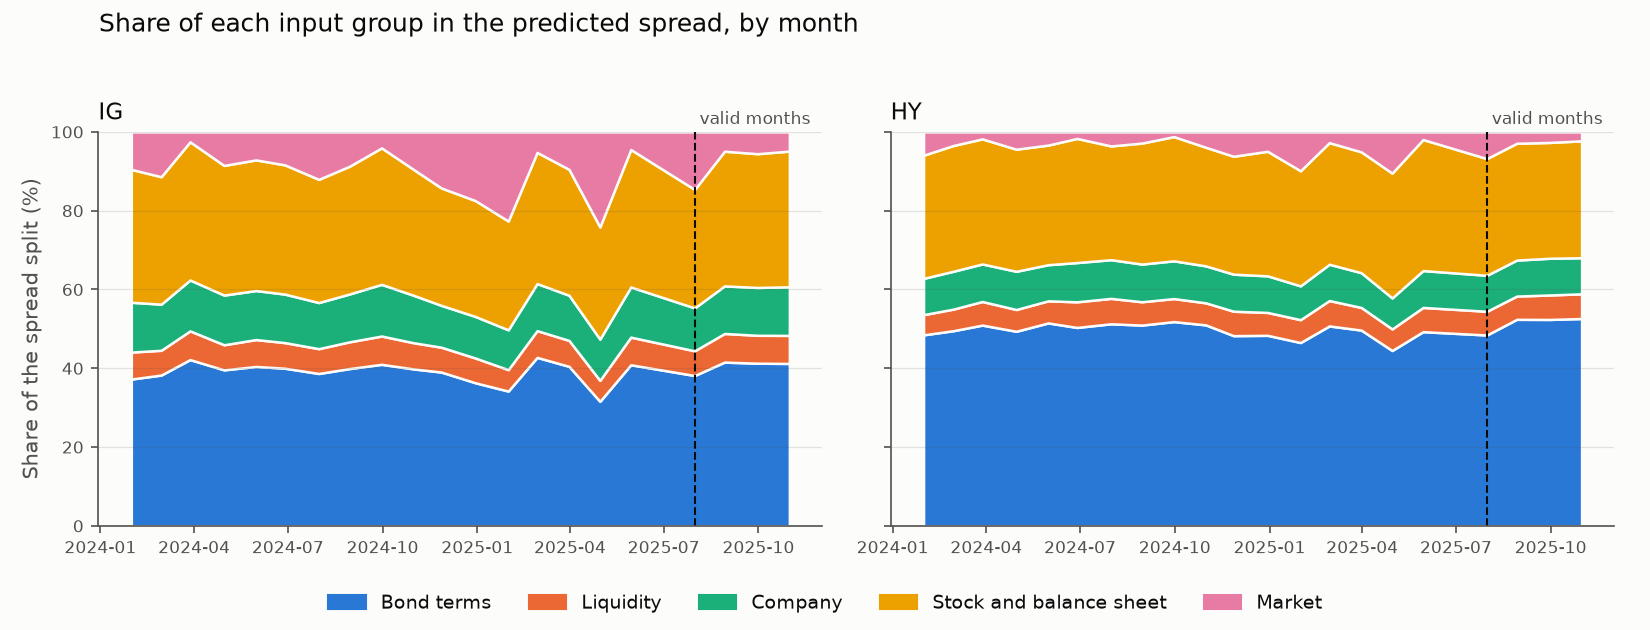
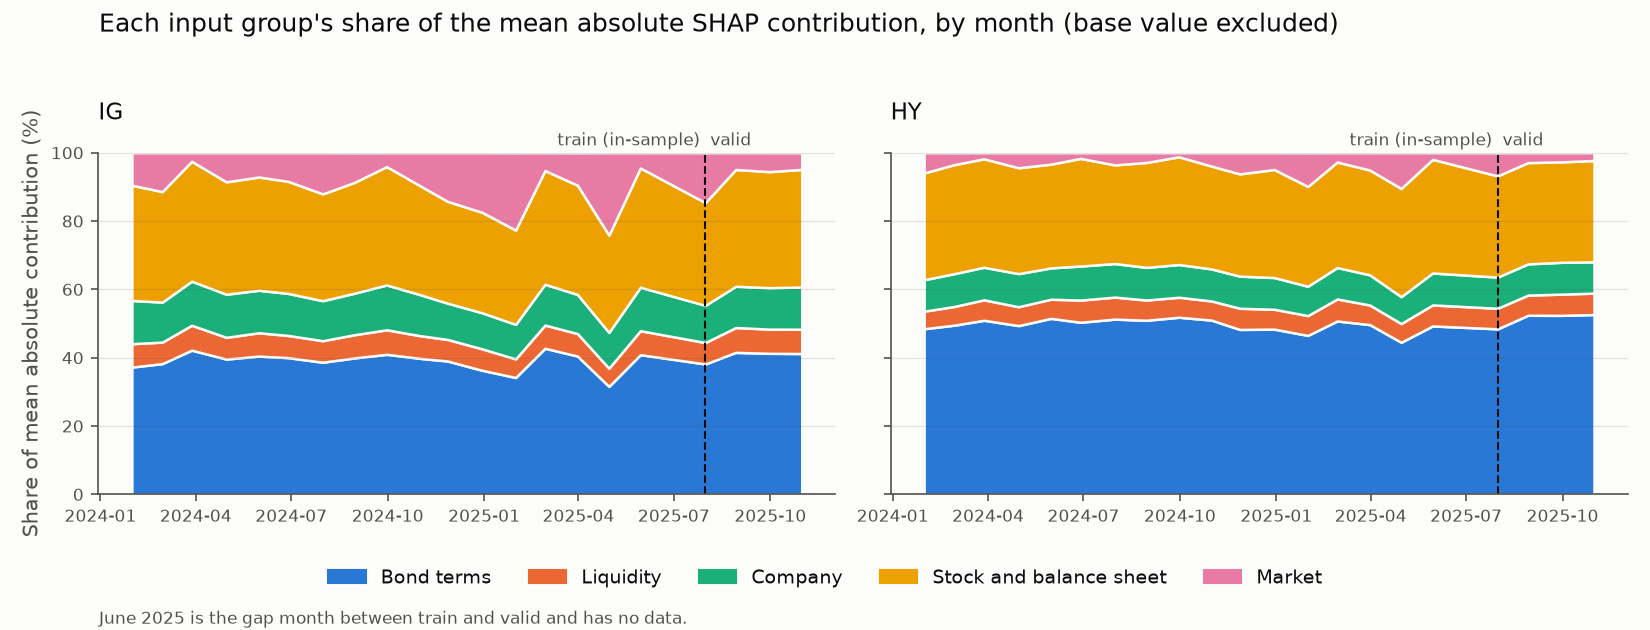
Apply review findings for #6
Name each allowed report CSV in .gitignore instead of allowing every CSV
in reports/. group_shares refuses contributions that are not row-aligned
with the panel, keeps missing cut values as their own cut, and drops
empty category combinations. The chart title says what is measured,
labels the train and valid sides and notes the gap month. The
identifier test now checks the table the script writes. CI installs
matplotlib again for the script.

diff --git a/scripts/a_shap_split.py b/scripts/a_shap_split.py
@@ -2,6 +2,7 @@
 write the shares table and the chart. Totals only.
 
 Run from the repo root: python -m scripts.a_shap_split
+About 8 minutes on a laptop, almost all of it the SHAP values for about 148,000 rows.
 """
 
 from __future__ import annotations
@@ -38,7 +39,7 @@ def shares_table(contribs: pd.DataFrame, df: pd.DataFrame) -> pd.DataFrame:
 
 
 def plot_monthly_shares(table: pd.DataFrame, path) -> None:
-    """Stacked monthly shares, one panel for IG and one for HY, with the valid months shaded."""
+    """Stacked monthly shares, one panel for IG and one for HY, with a line where the valid months start."""
     monthly = table[table["cut"] == "grade_month"]
     groups = list(input_groups())
     valid_start = monthly.loc[monthly["partition"] == "valid", "snapshot_date"].min()
@@ -49,10 +50,11 @@ def plot_monthly_shares(table: pd.DataFrame, path) -> None:
         ax.set_facecolor(SURFACE)
         ax.stackplot(wide.index, wide.T.to_numpy(), colors=COLOURS, edgecolor=SURFACE, linewidth=1.2)
         ax.axvline(valid_start, color=INK, linestyle="--", linewidth=1)
-        ax.text(valid_start, 101, " valid months", color=MUTED, fontsize=8, va="bottom")
-        ax.set_title(grade, color=INK, loc="left", fontsize=11)
+        ax.text(valid_start, 101, "train (in-sample) ", color=MUTED, fontsize=8, va="bottom", ha="right")
+        ax.text(valid_start, 101, " valid", color=MUTED, fontsize=8, va="bottom")
+        ax.set_title(grade, color=INK, loc="left", fontsize=11, pad=16)
         ax.set_ylim(0, 100)
-        ax.set_ylabel("Share of the spread split (%)" if grade == "IG" else "", color=MUTED)
+        ax.set_ylabel("Share of mean absolute contribution (%)" if grade == "IG" else "", color=MUTED)
         ax.tick_params(colors=MUTED, labelsize=8)
         ax.grid(axis="y", color=MUTED, alpha=0.15, linewidth=0.6)
         for side in ("top", "right"):
@@ -61,9 +63,14 @@ def plot_monthly_shares(table: pd.DataFrame, path) -> None:
             ax.spines[side].set_color(MUTED)
     labels = [name.replace("_", " ").capitalize() for name in groups]
     handles = [plt.Rectangle((0, 0), 1, 1, color=c) for c in COLOURS]
-    fig.legend(handles, labels, loc="lower center", ncol=5, frameon=False, fontsize=9, labelcolor=INK)
-    fig.suptitle("Share of each input group in the predicted spread, by month", color=INK, x=0.06, ha="left")
-    fig.tight_layout(rect=(0, 0.08, 1, 0.95))
+    fig.legend(handles, labels, loc="lower center", bbox_to_anchor=(0.5, 0.04), ncol=5, frameon=False, fontsize=9,
+               labelcolor=INK)
+    fig.suptitle(
+        "Each input group's share of the mean absolute SHAP contribution, by month (base value excluded)",
+        color=INK, x=0.06, ha="left",
+    )
+    fig.text(0.06, 0.01, "June 2025 is the gap month between train and valid and has no data.", color=MUTED, fontsize=8)
+    fig.tight_layout(rect=(0, 0.13, 1, 0.95))
     fig.savefig(path, dpi=150, facecolor=SURFACE)
     plt.close(fig)
 

diff --git a/tests/test_shap_split.py b/tests/test_shap_split.py
@@ -120,13 +120,26 @@ def test_shares_on_known_numbers():
     assert table.loc[("HY", "market"), "share_pct"] == pytest.approx(50)
 
 
-def test_shares_table_has_no_identifiers():
-    from src.shap_split import fit_spread_model, group_contributions, group_shares
+def test_written_table_has_no_identifiers_and_covers_every_row():
+    from scripts.a_shap_split import shares_table
+    from src.shap_split import fit_spread_model, group_contributions
 
     train, valid = split(driven_panel(LIQUIDITY))
-    contribs = group_contributions(fit_spread_model(train), valid)
-    table = group_shares(contribs, valid, by=["snapshot_date"])
-    assert not {"cusip_id", "issuer_ticker"} & set(table.columns)
+    valid = valid.assign(maturity_bucket=valid["maturity_bucket"].where(valid.index % 7 != 0))  # some missing
+    table = shares_table(group_contributions(fit_spread_model(train), valid), valid)
+    assert not {"cusip_id", "issuer_ticker", "issuer_name"} & set(table.columns)
+    assert table["maturity_bucket"].isna().any()  # rows with a missing bucket form their own cut
+    np.testing.assert_allclose(table.groupby(["cut", "grade_bucket", "maturity_bucket", "snapshot_date"],
+                                             dropna=False)["share_pct"].sum(), 100, atol=1e-6)
+
+
+def test_misaligned_rows_are_refused():
+    from src.shap_split import group_shares
+
+    contribs = pd.DataFrame({"liquidity": [1.0, 2.0], "base": [100.0, 100.0]})
+    df = pd.DataFrame({"grade_bucket": ["IG", "HY"]}, index=[5, 6])
+    with pytest.raises(ValueError, match="same index"):
+        group_shares(contribs, df, by=["grade_bucket"])
 
 
 @pytest.mark.skip(reason="waits for #7")

diff --git a/src/shap_split.py b/src/shap_split.py
@@ -62,12 +62,17 @@ def group_contributions(model: xgb.Booster, df: pd.DataFrame) -> pd.DataFrame:
 def group_shares(contribs: pd.DataFrame, df: pd.DataFrame, by: list[str]) -> pd.DataFrame:
     """Each group's mean contribution (``mean_bp``) and share of the mean absolute contribution
     (``share_pct``) within each cut of ``df[by]``. One row per cut and group; no identifiers.
+
+    ``contribs`` must be row-aligned with ``df`` (same index). A missing cut value is its own
+    cut, so every cut covers every row.
     """
+    if not contribs.index.equals(df.index):
+        raise ValueError("contribs and df must share the same index (one row each, same order).")
     groups = contribs.drop(columns="base")
     keys = [df[col] for col in by]
-    absolute = groups.abs().groupby(keys).mean()
+    absolute = groups.abs().groupby(keys, dropna=False, observed=True).mean()
     shares = absolute.div(absolute.sum(axis=1), axis=0) * 100
-    signed = groups.groupby(keys).mean()
+    signed = groups.groupby(keys, dropna=False, observed=True).mean()
 
     def long(wide: pd.DataFrame, name: str) -> pd.DataFrame:
         return wide.reset_index().melt(id_vars=by, var_name="group", value_name=name)

diff --git a/docs/specs/a_shap_split.md b/docs/specs/a_shap_split.md
@@ -8,9 +8,9 @@ Built on the train and valid months only. The test months stay closed until the 
 
 1. **`reports/a_group_shares.csv`**. For each input group (bond terms, liquidity, company, stock and balance sheet, market): its mean contribution to the predicted spread in bp, and its share of the mean absolute contribution in %. Cut by IG and HY, by maturity bucket and by month, reported separately for the train months (in-sample) and the valid months (out of sample). Totals only, with no bond or company identifiers.
 2. **`reports/figures/a_group_shares.png`**. The shares by month over the train and valid months, one panel for IG and one for HY, with a line where the valid months start.
+3. **`reports/a_drop_group.csv`**. Valid MAE in bp for IG and HY: the full model, then the model refit without each group in turn.
 
 Amended in #6: the valid months alone are four months, too few to show how the shares move. The train months use the same model and are marked in-sample; the split is an explanation of the fitted model, so in-sample months are informative, but accuracy claims use the valid months only.
-3. **`reports/a_drop_group.csv`**. Valid MAE in bp for IG and HY: the full model, then the model refit without each group in turn.
 
 The stage is done when:
 - the three files exist;
@@ -51,5 +51,7 @@ Written before the code, on synthetic panels where the answer is known. Each is 
 | A categorical input's effect lands in its own group (sector in company) | #5 |
 | When a synthetic spread depends only on the liquidity inputs, liquidity's share is above 80% | #5 |
 | Shares within each cut sum to 100% | #6 |
-| The shares table has no bond or company identifier columns | #6 |
+| Mean and share are right on hand-computed numbers | #6 |
+| The written table has no bond or company identifier columns, and rows with a missing cut value form their own cut | #6 |
+| Contributions not row-aligned with the panel are refused | #6 |
 | Leaving out the group that drives a synthetic spread raises valid MAE the most | #7 |
